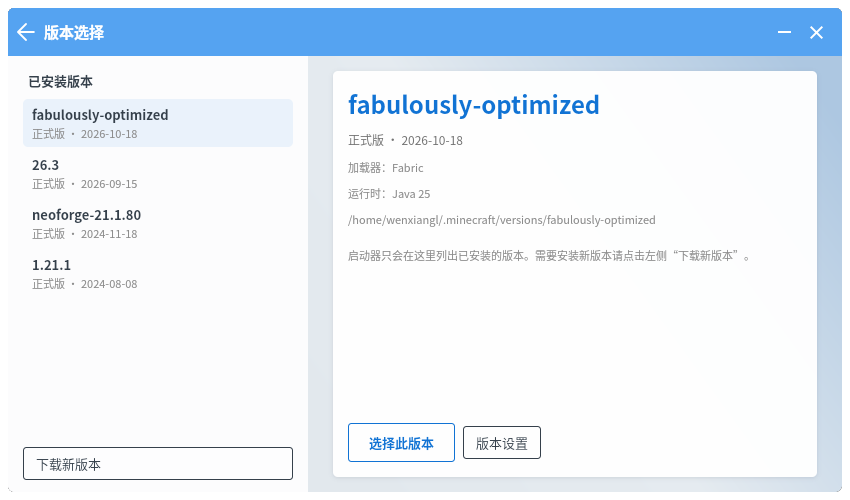
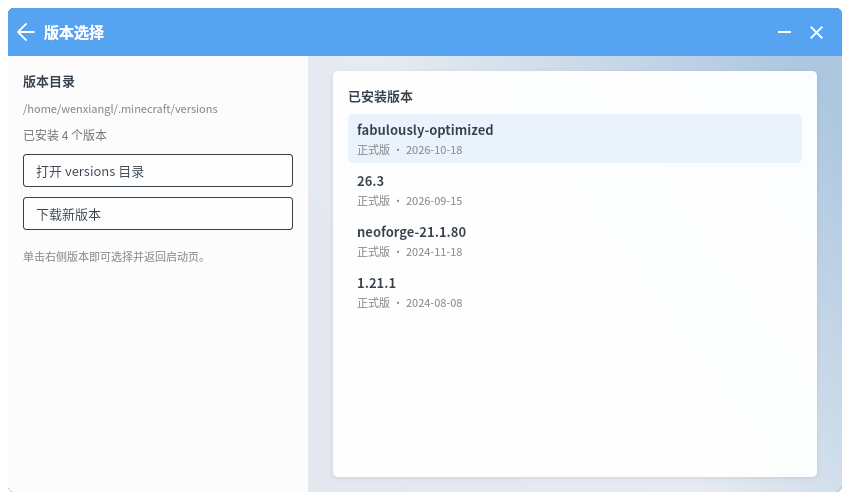
Fix: version select becomes a version list

diff --git a/src/WMCL.App/ViewModels/VersionSelectViewModel.cs b/src/WMCL.App/ViewModels/VersionSelectViewModel.cs
@@ -1,12 +1,12 @@
 using System.Collections.ObjectModel;
+using System.Diagnostics;
 using CommunityToolkit.Mvvm.ComponentModel;
 using CommunityToolkit.Mvvm.Input;
 using WMCL.App.Services;
-using WMCL.Minecraft;
 
 namespace WMCL.App.ViewModels;
 
-/// <summary>PCL2 PageSelect 的简化版：左侧已安装版本，右侧版本详情与操作。</summary>
+/// <summary>PCL2 PageSelect：左侧版本目录，右侧已安装版本列表；单击版本后返回启动页。</summary>
 public partial class VersionSelectViewModel : ViewModelBase
 {
     private readonly LaunchViewModel _launch;
@@ -27,79 +27,28 @@ public partial class VersionSelectViewModel : ViewModelBase
         SelectedVersion = launch.SelectedVersion is { IsInstalled: true } selected
             ? selected
             : Versions.FirstOrDefault();
-        Versions.CollectionChanged += (_, _) => RefreshSelection();
-        _ = LoadDetailsAsync(SelectedVersion);
-    }
-
-    [ObservableProperty]
-    private string _versionLoader = "";
-
-    [ObservableProperty]
-    private string _versionPath = "";
-
-    [ObservableProperty]
-    private string _versionJava = "";
-
-    public void RefreshSelection()
-    {
-        OnPropertyChanged(nameof(HasVersions));
-        if (SelectedVersion is null || !Versions.Contains(SelectedVersion))
-            SelectedVersion = _launch.SelectedVersion is { IsInstalled: true } selected
-                ? selected
-                : Versions.FirstOrDefault();
-        _ = LoadDetailsAsync(SelectedVersion);
-    }
-
-    private async Task LoadDetailsAsync(VersionItem? version)
-    {
-        if (version is null)
+        Versions.CollectionChanged += (_, _) =>
         {
-            VersionLoader = "";
-            VersionPath = "";
-            VersionJava = "";
-            return;
-        }
-        VersionPath = Path.Combine(
-            _services.Settings.GameDirectory, "versions", version.Id);
-        try
-        {
-            var json = await _services.Repository.GetVersionAsync(version.Id);
-            VersionLoader = MinecraftVersionUtil.GetLoader(json) switch
-            {
-                "fabric" => "Fabric",
-                "forge" => "Forge",
-                "neoforge" => "NeoForge",
-                "quilt" => "Quilt",
-                "optifine" => "OptiFine",
-                _ => "原版"
-            };
-            VersionJava = json.JavaVersion?.MajorVersion is { } major
-                ? $"Java {major}"
-                : "自动选择 Java";
-        }
-        catch
-        {
-            VersionLoader = "未知";
-            VersionJava = "未知";
-        }
+            OnPropertyChanged(nameof(HasVersions));
+            OnPropertyChanged(nameof(CountText));
+            RefreshSelection();
+        };
     }
 
     public ObservableCollection<VersionItem> Versions => _launch.InstalledVersions;
     public bool HasVersions => Versions.Count > 0;
+    public string CountText => $"已安装 {Versions.Count} 个版本";
+    public string VersionsDirectory => Path.Combine(_services.Settings.GameDirectory, "versions");
 
     [ObservableProperty]
     private VersionItem? _selectedVersion;
 
-    public string SelectedVersionTitle => SelectedVersion?.Id ?? "未选择版本";
-    public string SelectedVersionInfo => SelectedVersion is null
-        ? "请选择一个已安装版本"
-        : SelectedVersion.Subtitle;
-
-    partial void OnSelectedVersionChanged(VersionItem? value)
+    public void RefreshSelection()
     {
-        OnPropertyChanged(nameof(SelectedVersionTitle));
-        OnPropertyChanged(nameof(SelectedVersionInfo));
-        _ = LoadDetailsAsync(value);
+        if (SelectedVersion is null || !Versions.Contains(SelectedVersion))
+            SelectedVersion = _launch.SelectedVersion is { IsInstalled: true } selected
+                ? selected
+                : Versions.FirstOrDefault();
     }
 
     [RelayCommand]
@@ -111,12 +60,23 @@ public partial class VersionSelectViewModel : ViewModelBase
     }
 
     [RelayCommand]
-    private void OpenSettings()
+    private void OpenFolder()
     {
-        if (SelectedVersion is null) return;
-        _launch.SelectedVersion = SelectedVersion;
-        _close();
-        _launch.RequestVersionSettings();
+        try
+        {
+            Directory.CreateDirectory(VersionsDirectory);
+            var start = new ProcessStartInfo
+            {
+                FileName = OperatingSystem.IsWindows() ? VersionsDirectory : "xdg-open",
+                Arguments = OperatingSystem.IsWindows() ? "" : VersionsDirectory,
+                UseShellExecute = OperatingSystem.IsWindows()
+            };
+            Process.Start(start);
+        }
+        catch
+        {
+            // 打开失败不改变选择状态
+        }
     }
 
     [RelayCommand]
@@ -125,7 +85,4 @@ public partial class VersionSelectViewModel : ViewModelBase
         _close();
         _download();
     }
-
-    [RelayCommand]
-    private void Back() => _close();
 }

diff --git a/src/WMCL.App/Views/VersionSelectView.axaml.cs b/src/WMCL.App/Views/VersionSelectView.axaml.cs
@@ -1,6 +1,7 @@
 using Avalonia.Controls;
 using Avalonia.Input;
 using Avalonia.Interactivity;
+using Avalonia.VisualTree;
 using WMCL.App.ViewModels;
 
 namespace WMCL.App.Views;

diff --git a/docs/LINK_VERSION_LOGIC_AUDIT.md b/docs/LINK_VERSION_LOGIC_AUDIT.md
@@ -6,8 +6,8 @@
 
 | # | 问题 | 原行为 | 现在的行为 |
 |---|---|---|---|
-| 1 | 版本选择页按钮叫“启动游戏” | 只设置 `Launch.SelectedVersion` 并关闭页面，**不会启动游戏** | 按钮改名为“选择此版本”；单击列表项即选择并返回启动页，符合 PCL2 `PageSelectRight.Item_Click` 的 `McInstanceSelected + PageBack` |
-| 2 | 异步首次选中版本触发返回 | 列表加载完成后自动选中第一项，页面可能自动关闭 | 改为 `PointerReleased`，只有用户真正点击列表项才返回 |
+| 1 | 版本选择页右侧是“版本详情 + 启动游戏” | 右侧详情没有实际用途；按钮只设置 `Launch.SelectedVersion` 并关闭，**不会启动游戏** | 右侧改成 PCL2 式已安装版本列表；单击列表项即选择并返回启动页，符合 PCL2 `PageSelectRight.Item_Click` 的 `McInstanceSelected + PageBack` |
+| 2 | 异步首次选中版本触发返回/改选 | 列表加载完成后自动选中第一项，页面可能自动关闭或改启动版本 | 选中不再写回 Launch；仅 `PointerReleased` 在真实 `ListBoxItem` 上触发确认，首次异步选中不会返回或改版本 |
 | 3 | EasyTier 和陶瓦可同时启动 | 两个 `CanStart` 只看自己的状态 | 互斥：一个在运行/启动时，另一个按钮禁用；启动一个会停止另一个 |
 | 4 | 切换联机方式不停旧后端 | EasyTier 运行中切到陶瓦，EasyTier 仍在跑 | 切换时取消/停止旧后端 |
 | 5 | EasyTier 卡片出现陶瓦路径 | EasyTier 卡片复制了“本地陶瓦可执行文件”输入，实际启动不会使用 | 已从 EasyTier 卡片删除 |
@@ -18,7 +18,7 @@
 
 - PCL2 官方房间服务依赖闭源配置，本项目无法使用；联机页仍是 **EasyTier 手动网络 / 陶瓦 Terracotta** 替代方案，不是 PCL2 的官方房间列表和玩家列表。
 - 联机页不会自动启动 Minecraft 或自动加入服务器；房主仍需在游戏内“对局域网开放”，客人手动连接显示的地址。
-- 版本选择页右侧是简化详情卡片；PCL2 原版右侧是按类型分组的版本卡片，还支持收藏、隐藏版本、错误版本等分组。
+- 版本选择页右侧现在是简单版本列表；PCL2 原版右侧是按类型分组的版本卡片，还支持收藏、隐藏版本、错误版本等分组。
 - `AutoFallbackToTerracotta` 默认开启，EasyTier 失败会自动切到陶瓦；不需要时可在界面关掉。
 - 陶瓦/TUN/EasyTier 仍依赖本机权限、二进制下载和网络环境。
 
